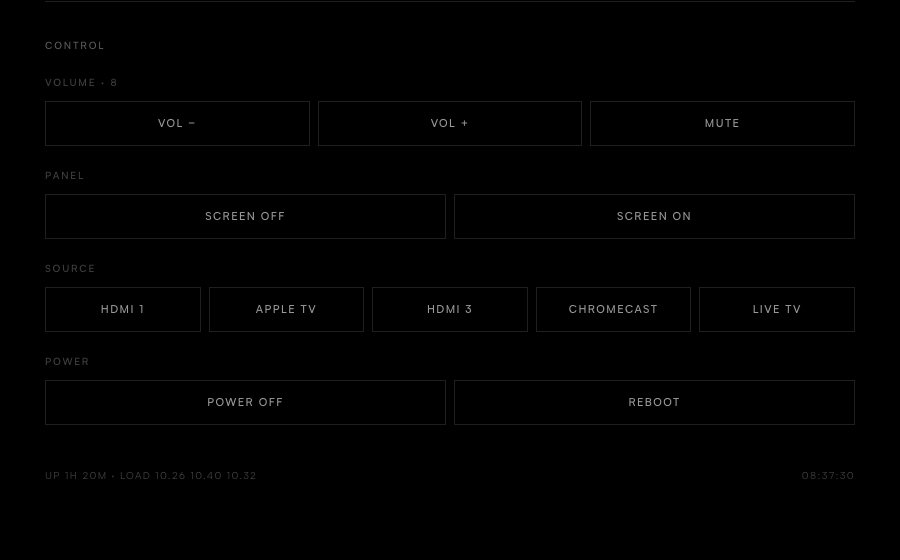
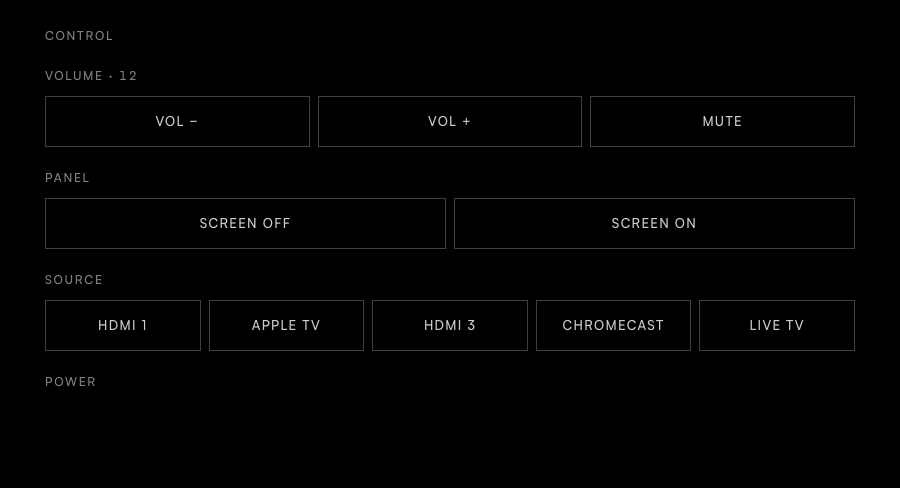
Accessible type scale; controls before metrics
The small text was failing WCAG AA as well as being small. Measured on
black, the raw-data captions under each readout sat at 2.03:1 against a
4.5:1 floor, and the section labels, min/max line and footer at 3.00:1.

- Raw-data captions 11px -> 13px, w25 -> w60 (7.4:1).
- Section labels 10px -> 12px, w35 -> w50 (5.3:1).
- Min/max, signal and footer lines 10-11px -> 12-13px at w50/w60.
- Buttons 11px -> 13px at w80 with a 48px minimum height, so they are
  also a usable touch target.
- Add --purple-t #B57BFF for violet TEXT: the solid #8F30FF is 4.03:1,
  under the floor. The solid tone stays for fills.

Two bugs surfaced while doing this. `.panel .n em` carried two `color`
declarations, so the later one silently won and the accent never
rendered. And the control sub-labels had inline `color:var(--w25)`
overrides dragging them back to 2.03:1 regardless of the class.

Controls now lead the page under a CONTROL heading, with the readings
following under a new METRICS heading - opening the page is usually
about doing something, not reading something. README and screenshots
reordered to match.

diff --git a/server/assets/ui.html b/server/assets/ui.html
@@ -39,6 +39,9 @@
      never as decoration. The chrome stays monochrome. */
   --cool:#D4E3FF; --warm:#FFDEA1; --cand:#FFB04F;
   --red:#FF3030;  --blue:#3061FF; --green:#30DE61; --purple:#8F30FF;
+  /* Lighter violet for TEXT: #8F30FF is only 4.03:1 on black, under the
+     4.5:1 AA floor for small text. The solid tone stays for fills. */
+  --purple-t:#B57BFF;
   --gut:clamp(20px,5vw,64px);
 }
 *{box-sizing:border-box;margin:0;padding:0}
@@ -56,20 +59,20 @@ body{
    distracting than the numbers themselves. */
 .num{font-variant-numeric:tabular-nums;font-feature-settings:'tnum' 1}
 
-.lbl{font-weight:500;font-size:10px;letter-spacing:.18em;text-transform:uppercase;color:var(--w35)}
+.lbl{font-weight:500;font-size:12px;letter-spacing:.14em;text-transform:uppercase;color:var(--w50)}
 .rule{height:1px;background:var(--w10);border:0}
 
 /* ---- masthead ---- */
 header{display:flex;justify-content:space-between;align-items:baseline;gap:24px;flex-wrap:wrap}
 .mark{font-family:'Clash Display';font-weight:300;font-size:clamp(19px,2.4vw,26px);color:var(--w100);letter-spacing:.01em}
-.mark span{color:var(--w35)}
+.mark span{color:var(--w50)}
 .src{text-align:right}
 .src .t{font-family:'Clash Display';font-weight:300;font-size:clamp(15px,1.8vw,19px);color:var(--w80)}
-.src .m{font-size:11px;color:var(--w35);letter-spacing:.04em}
+.src .m{font-size:13px;color:var(--w50);letter-spacing:.02em}
 .src .m b{font-weight:400}
 
 /* ---- the spectacle ---- */
-.hero{margin:clamp(34px,7vw,72px) 0 0;display:flex;align-items:flex-end;justify-content:space-between;gap:32px;flex-wrap:wrap}
+.hero{margin:clamp(20px,4vw,34px) 0 0;display:flex;align-items:flex-end;justify-content:space-between;gap:32px;flex-wrap:wrap}
 .hero .big{font-family:'Clash Display';font-weight:200;color:var(--hot,#fff);transition:color .8s ease;
   font-size:clamp(96px,20vw,208px);line-height:.82;letter-spacing:-.025em}
 .hero .deg{font-size:.34em;color:var(--w35);vertical-align:super;letter-spacing:0}
@@ -79,35 +82,37 @@ header{display:flex;justify-content:space-between;align-items:baseline;gap:24px;
 .trace i.warm{background:color-mix(in srgb,var(--hot,#fff) 45%,transparent)}
 .trace i.now{background:var(--hot,#fff)}
 .trace i.void{background:transparent}
-.meta{display:flex;justify-content:space-between;font-size:11px;color:var(--w35);letter-spacing:.04em}
+.meta{display:flex;justify-content:space-between;font-size:13px;color:var(--w60);letter-spacing:.02em}
 
 /* ---- readouts ---- */
-.readouts{margin-top:clamp(34px,6vw,64px);border-top:1px solid var(--w10)}
+.readouts{margin-top:clamp(30px,5vw,52px);border-top:1px solid var(--w10)}
 .r{display:grid;grid-template-columns:clamp(118px,17%,176px) 1fr 92px;gap:20px;align-items:center;
    padding:15px 0;border-bottom:1px solid var(--w06)}
 .r .v{font-family:'Clash Display';font-weight:200;font-size:26px;color:var(--w100);text-align:right;line-height:1}
-.r .v small{font-size:12px;color:var(--w35);margin-left:3px;font-family:'Satoshi';font-weight:400}
+.r .v small{font-size:13px;color:var(--w50);margin-left:4px;font-family:'Satoshi';font-weight:400}
 .track{height:2px;background:var(--w06);position:relative;overflow:hidden}
 .track b{position:absolute;inset:0 auto 0 0;background:var(--w60);transition:width .45s cubic-bezier(.4,0,.2,1),background .5s ease}
 
 .r.hi .lbl{color:var(--w80)}
-.sub{font-size:11px;color:var(--w25);letter-spacing:.04em;margin-top:5px;white-space:nowrap;overflow:hidden;text-overflow:ellipsis}
+.sub{font-size:13px;color:var(--w60);letter-spacing:.02em;margin-top:6px;white-space:nowrap;overflow:hidden;text-overflow:ellipsis}
 
 /* ---- panel block: the second thing worth looking at ---- */
-.panel{margin-top:clamp(34px,6vw,64px);padding-top:clamp(26px,4vw,40px);border-top:1px solid var(--w12)}
+.panel{margin-top:clamp(30px,5vw,52px);padding-top:clamp(24px,4vw,36px);border-top:1px solid var(--w10)}
 .panel .n{font-family:'Clash Display';font-weight:200;font-size:clamp(52px,9vw,90px);color:var(--w100);line-height:.9;letter-spacing:-.02em}
-.panel .n em{font-style:normal;color:var(--purple);font-size:.26em;color:var(--w35);letter-spacing:.14em;margin-left:12px;font-family:'Satoshi';font-weight:500}
+.panel .n em{font-style:normal;color:var(--purple-t);font-size:.26em;letter-spacing:.14em;margin-left:12px;font-family:'Satoshi';font-weight:500}
 .cols{display:grid;grid-template-columns:repeat(auto-fit,minmax(148px,1fr));gap:26px;margin-top:26px}
-.cols .v{font-family:'Clash Display';font-weight:300;font-size:21px;color:var(--w80);margin-top:5px}
+.cols .v{font-family:'Clash Display';font-weight:300;font-size:24px;color:var(--w100);margin-top:6px}
 
 /* ---- controls ---- */
-.controls{margin-top:clamp(34px,6vw,64px);padding-top:clamp(26px,4vw,40px);border-top:1px solid var(--w12)}
+.controls{margin-top:clamp(30px,5vw,48px);padding-top:clamp(24px,4vw,36px);border-top:1px solid var(--w12)}
+.metrics{margin-top:clamp(34px,6vw,64px);padding-top:clamp(24px,4vw,36px);border-top:1px solid var(--w12)}
+.sec{font-family:'Satoshi';font-weight:500;font-size:12px;letter-spacing:.14em;text-transform:uppercase;color:var(--w50)}
 .set{margin-top:22px}
 .btns{display:grid;grid-template-columns:repeat(auto-fit,minmax(96px,1fr));gap:8px;margin-top:11px}
 button{
-  font-family:'Satoshi';font-weight:500;font-size:11px;letter-spacing:.13em;text-transform:uppercase;
-  color:var(--w60);background:transparent;border:1px solid var(--w12);
-  padding:14px 8px;cursor:pointer;transition:.16s ease;
+  font-family:'Satoshi';font-weight:500;font-size:13px;letter-spacing:.10em;text-transform:uppercase;
+  color:var(--w80);background:transparent;border:1px solid var(--w25);
+  padding:16px 10px;min-height:48px;cursor:pointer;transition:.16s ease;
 }
 button:hover{color:var(--w100);border-color:var(--w35)}
 button:active{background:var(--w10)}
@@ -115,9 +120,9 @@ button.on{color:#000;background:var(--green);border-color:var(--green)}
 button[disabled]{opacity:.28;cursor:not-allowed}
 button[disabled]:hover{color:var(--w60);border-color:var(--w12)}
 
-#err{margin-top:18px;font-size:12px;color:var(--red);border-left:2px solid var(--red);padding:9px 13px;background:var(--w06);display:none}
+#err{margin-top:18px;font-size:14px;color:var(--red);border-left:2px solid var(--red);padding:9px 13px;background:var(--w06);display:none}
 @media (max-width:620px){.src{text-align:left}.hero{gap:22px}}
-footer{margin-top:38px;font-size:10px;letter-spacing:.14em;text-transform:uppercase;color:var(--w25);display:flex;justify-content:space-between;gap:16px;flex-wrap:wrap}
+footer{margin-top:38px;font-size:12px;letter-spacing:.10em;text-transform:uppercase;color:var(--w50);display:flex;justify-content:space-between;gap:16px;flex-wrap:wrap}
 .stale{opacity:.35;transition:opacity .3s}
 </style>
 </head>
@@ -131,6 +136,48 @@ footer{margin-top:38px;font-size:10px;letter-spacing:.14em;text-transform:upperc
   </div>
 </header>
 
+
+
+
+
+
+
+
+
+<section class="controls">
+  <div class="lbl">Control</div>
+  <div id="err"></div>
+
+  <div class="set"><div class="lbl">Volume &middot; <span id="vol" class="num">&mdash;</span></div>
+    <div class="btns">
+      <button onclick="c('volumeStep',-1)">Vol &minus;</button>
+      <button onclick="c('volumeStep',1)">Vol &plus;</button>
+      <button id="mute" onclick="toggleMute()">Mute</button>
+    </div>
+  </div>
+
+  <div class="set"><div class="lbl">Panel</div>
+    <div class="btns">
+      <button onclick="c('screenOff')">Screen off</button>
+      <button onclick="c('screenOn')">Screen on</button>
+    </div>
+  </div>
+
+  <div class="set"><div class="lbl">Source</div>
+    <div class="btns" id="inputs"></div>
+  </div>
+
+  <div class="set"><div class="lbl">Power</div>
+    <div class="btns">
+      <button id="poff" onclick="pw('powerOff')">Power off</button>
+      <button id="prb" onclick="pw('reboot')">Reboot</button>
+    </div>
+    <div class="sub" id="pwnote"></div>
+  </div>
+</section>
+
+<section class="metrics">
+  <div class="sec">Metrics</div>
 <section class="hero">
   <div>
     <div class="lbl" style="margin-bottom:14px">SoC temperature</div>
@@ -157,37 +204,6 @@ footer{margin-top:38px;font-size:10px;letter-spacing:.14em;text-transform:upperc
     <div><div class="lbl">Flash wear</div><div class="v num" id="wear">&mdash;</div></div>
   </div>
 </section>
-
-<section class="controls">
-  <div class="lbl">Control</div>
-  <div id="err"></div>
-
-  <div class="set"><div class="lbl" style="color:var(--w25)">Volume &middot; <span id="vol" class="num">&mdash;</span></div>
-    <div class="btns">
-      <button onclick="c('volumeStep',-1)">Vol &minus;</button>
-      <button onclick="c('volumeStep',1)">Vol &plus;</button>
-      <button id="mute" onclick="toggleMute()">Mute</button>
-    </div>
-  </div>
-
-  <div class="set"><div class="lbl" style="color:var(--w25)">Panel</div>
-    <div class="btns">
-      <button onclick="c('screenOff')">Screen off</button>
-      <button onclick="c('screenOn')">Screen on</button>
-    </div>
-  </div>
-
-  <div class="set"><div class="lbl" style="color:var(--w25)">Source</div>
-    <div class="btns" id="inputs"></div>
-  </div>
-
-  <div class="set"><div class="lbl" style="color:var(--w25)">Power</div>
-    <div class="btns">
-      <button id="poff" onclick="pw('powerOff')">Power off</button>
-      <button id="prb" onclick="pw('reboot')">Reboot</button>
-    </div>
-    <div class="sub" id="pwnote"></div>
-  </div>
 </section>
 
 <footer>
@@ -280,7 +296,7 @@ async function tick() {
     q('source').textContent = d.display_title || d.app_name || d.app || '—';
     const pic = d.picture || {};
     const dr = pic.dynamicRange || '';
-    const drCol = /dolby/i.test(dr) ? 'var(--purple)' : /hdr/i.test(dr) ? 'var(--cand)' : 'var(--w35)';
+    const drCol = /dolby/i.test(dr) ? 'var(--purple-t)' : /hdr/i.test(dr) ? 'var(--cand)' : 'var(--w60)';
     q('signal').innerHTML = [
       d.signal ? esc(d.signal) : '',
       dr ? `<b style="color:${drCol}">${esc(dr)}</b>` : '',

diff --git a/README.md b/README.md
@@ -16,24 +16,25 @@ Runs natively in pure ES5 on the TV's embedded Node.js runtime, exposing **33 re
 
 ## Web Dashboard & Home Assistant Integration
 
-### On-TV Dashboard
-
-Served by the TV itself, to any browser on the network. Typography-led and
-monochrome, with colour reserved for meaning: the temperature reading warms
-through the range, headroom bars run green to amber to red, and Dolby Vision
-is picked out where it appears.
-
-<p align="center">
-  <img src="docs/screenshots/dashboard.png" alt="On-TV dashboard showing SoC temperature, resource readouts and OLED panel hours" width="800">
-</p>
-
 ### Local Controls
 
-Volume, OLED panel blanking, source switching and power, driven straight over
-the Luna bus with no cloud round-trip.
+Controls lead the page, since that is usually why you opened it. Volume, OLED
+panel blanking, source switching and power, driven straight over the Luna bus
+with no cloud round-trip.
 
 <p align="center">
-  <img src="docs/screenshots/controls.png" alt="Local control panel: volume, screen blanking, source switching and power" width="720">
+  <img src="docs/screenshots/controls.png" alt="Local control panel: volume, screen blanking, source switching and power" width="760">
+</p>
+
+### Metrics
+
+Typography-led and monochrome, with colour reserved for meaning: the
+temperature reading warms through its range, headroom bars run green to amber
+to red, and Dolby Vision is picked out where it appears. Body text meets WCAG
+AA contrast (4.5:1) on black.
+
+<p align="center">
+  <img src="docs/screenshots/dashboard.png" alt="Metrics: SoC temperature, resource readouts and OLED panel hours" width="900">
 </p>
 
 ### Home Assistant &mdash; Auto-Discovered Device
